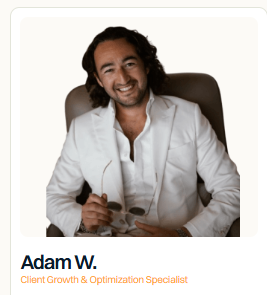
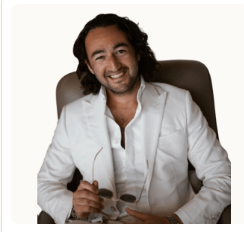
Changes

diff --git a/src/components/FooterAboutSection.tsx b/src/components/FooterAboutSection.tsx
@@ -12,49 +12,49 @@ const teamMembers = [
   {
     name: "Adam Tabari",
     role: "Founder, CEO",
-    description: "Adam Tabari, the founder and CEO of Outsta, is committed to bridging the gap between exceptional global talent and Western businesses, achieving significant savings and ongoing support. His visionary approach to cost-effective, skilled staffing solutions profoundly impacts the staffing sector. His leadership philosophy is inspired by the idea that \"Innovation distinguishes between a leader and a follower.\" – Steve Jobs. This perspective drives Outsta's commitment to leading the industry through innovative, inclusive, and strategic practices.",
+    description: "As our founder and CEO, Adam is dedicated to connecting you with opportunities at top Western businesses. He'll ensure you receive ongoing support and are valued for your exceptional skills. His vision is to help talented professionals like you thrive in rewarding remote careers.",
     image: adamTabari,
   },
   {
     name: "Adam W.",
     role: "Client Growth & Optimization Specialist",
-    description: "Adam harnesses data science, creative insights, and both emerging and proven tech platforms to enhance client-candidate alignment and drive business growth. His expertise in managing complex technology projects from start to finish significantly improves client outcomes, fostering sustainable and mutually beneficial relationships. Adam consistently leverages machine learning to refine decision-making processes, utilizes real-time data for creative insights, and employs algorithms to continually optimize the client experience at Outsta.",
-    image: adamTabari,
+    description: "Adam uses cutting-edge technology and data insights to match you with the perfect role. He works to understand your unique strengths and find positions where you'll excel, ensuring a great fit between your skills and employer needs.",
+    image: adamW,
   },
   {
     name: "Eduardo",
     role: "Bilingual Contractor Recruitment and Client HR Strategy & Support",
-    description: "Eduardo specializes in recruiting across Latin America, focusing on bilingual positions and streamlining the hiring process. His expertise in building strong relationships and handling HR matters is instrumental in surpassing client expectations.",
+    description: "Eduardo is your go-to specialist for bilingual opportunities across Latin America. He'll guide you through the hiring process, build a strong relationship with you, and advocate for your success every step of the way.",
     image: eduardo,
   },
   {
     name: "Cza",
     role: "Client HR Strategy & Support and Contractor Recruitment",
-    description: "Czarina oversees the recruitment process, prioritizing clear communication and strong connections between client and contractor that contribute to collective success.",
+    description: "Czarina will be your main point of contact throughout the recruitment journey. She prioritizes clear communication and ensures you feel supported, helping you build strong connections with your future employer.",
     image: cza,
   },
   {
     name: "Kristine",
     role: "Client HR Strategy & Support and Candidate Recruitment",
-    description: "Kristine dedicates herself to streamlining the hiring process, aligning client needs with candidate capabilities. Her focus on building lasting partnerships enhances our talent acquisition efforts.",
+    description: "Kristine is here to make your job search seamless. She focuses on understanding your capabilities and career goals, then works to match you with employers who truly value what you bring to the table.",
     image: kristine,
   },
   {
     name: "Mark",
     role: "Client Satisfaction & Development",
-    description: "Mark is committed to establishing strong connections that drive growth and enduring success for both clients and contractors. His focus on fostering meaningful partnerships underscores Outsta's mission to propel businesses forward.",
+    description: "Mark is committed to your long-term success. He nurtures meaningful partnerships that help you grow professionally, ensuring you have the support you need to build an enduring and rewarding career.",
     image: mark,
   },
   {
     name: "Sean de Luna",
     role: "Strategic Engagement Advisor",
-    description: "With extensive experience in marketing and personnel optimizations, Sean is a strategic leader proficient in enhancing audience engagement and campaign effectiveness. His expertise in leveraging data-driven strategies and his commitment to diversity and inclusion significantly enrich Outsta's marketing efforts, ensuring meticulous attention to both client and contractor needs.",
+    description: "Sean brings extensive experience to help you stand out. He's passionate about diversity and inclusion, and works to ensure every candidate receives fair consideration and has their unique strengths recognized.",
     image: sean,
   },
   {
     name: "Liezl De Dios",
     role: "Client & Contractor Operations and Hiring Strategy",
-    description: "With a robust background as a virtual assistant and extensive global experience, Liezl excels at aligning businesses with optimal remote talent. Her deep understanding of client and contractor needs makes her a pivotal member of the Outsta team.",
+    description: "With her background as a virtual assistant and global experience, Liezl understands exactly what you need to succeed in remote work. She'll help align your talents with the right opportunities and support you throughout your journey.",
     image: liezl,
   },
 ];
